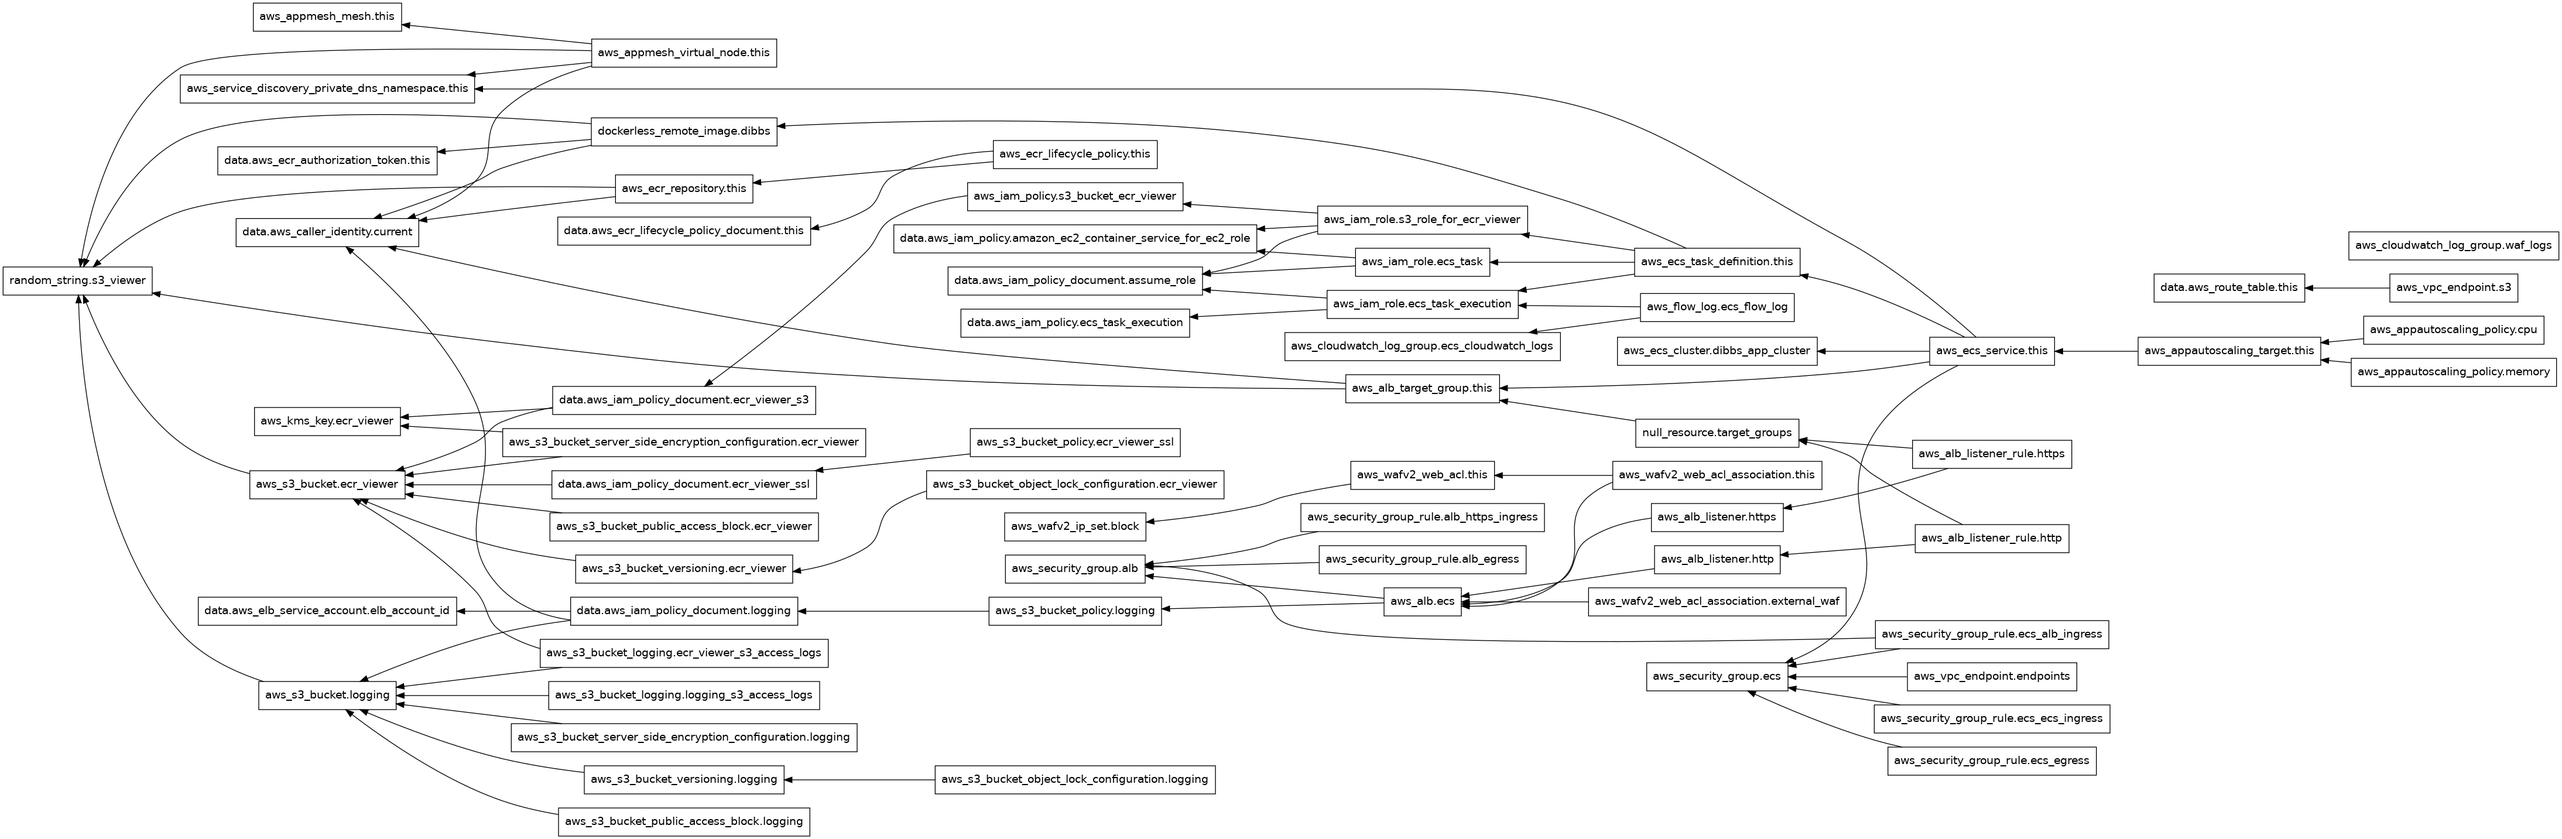
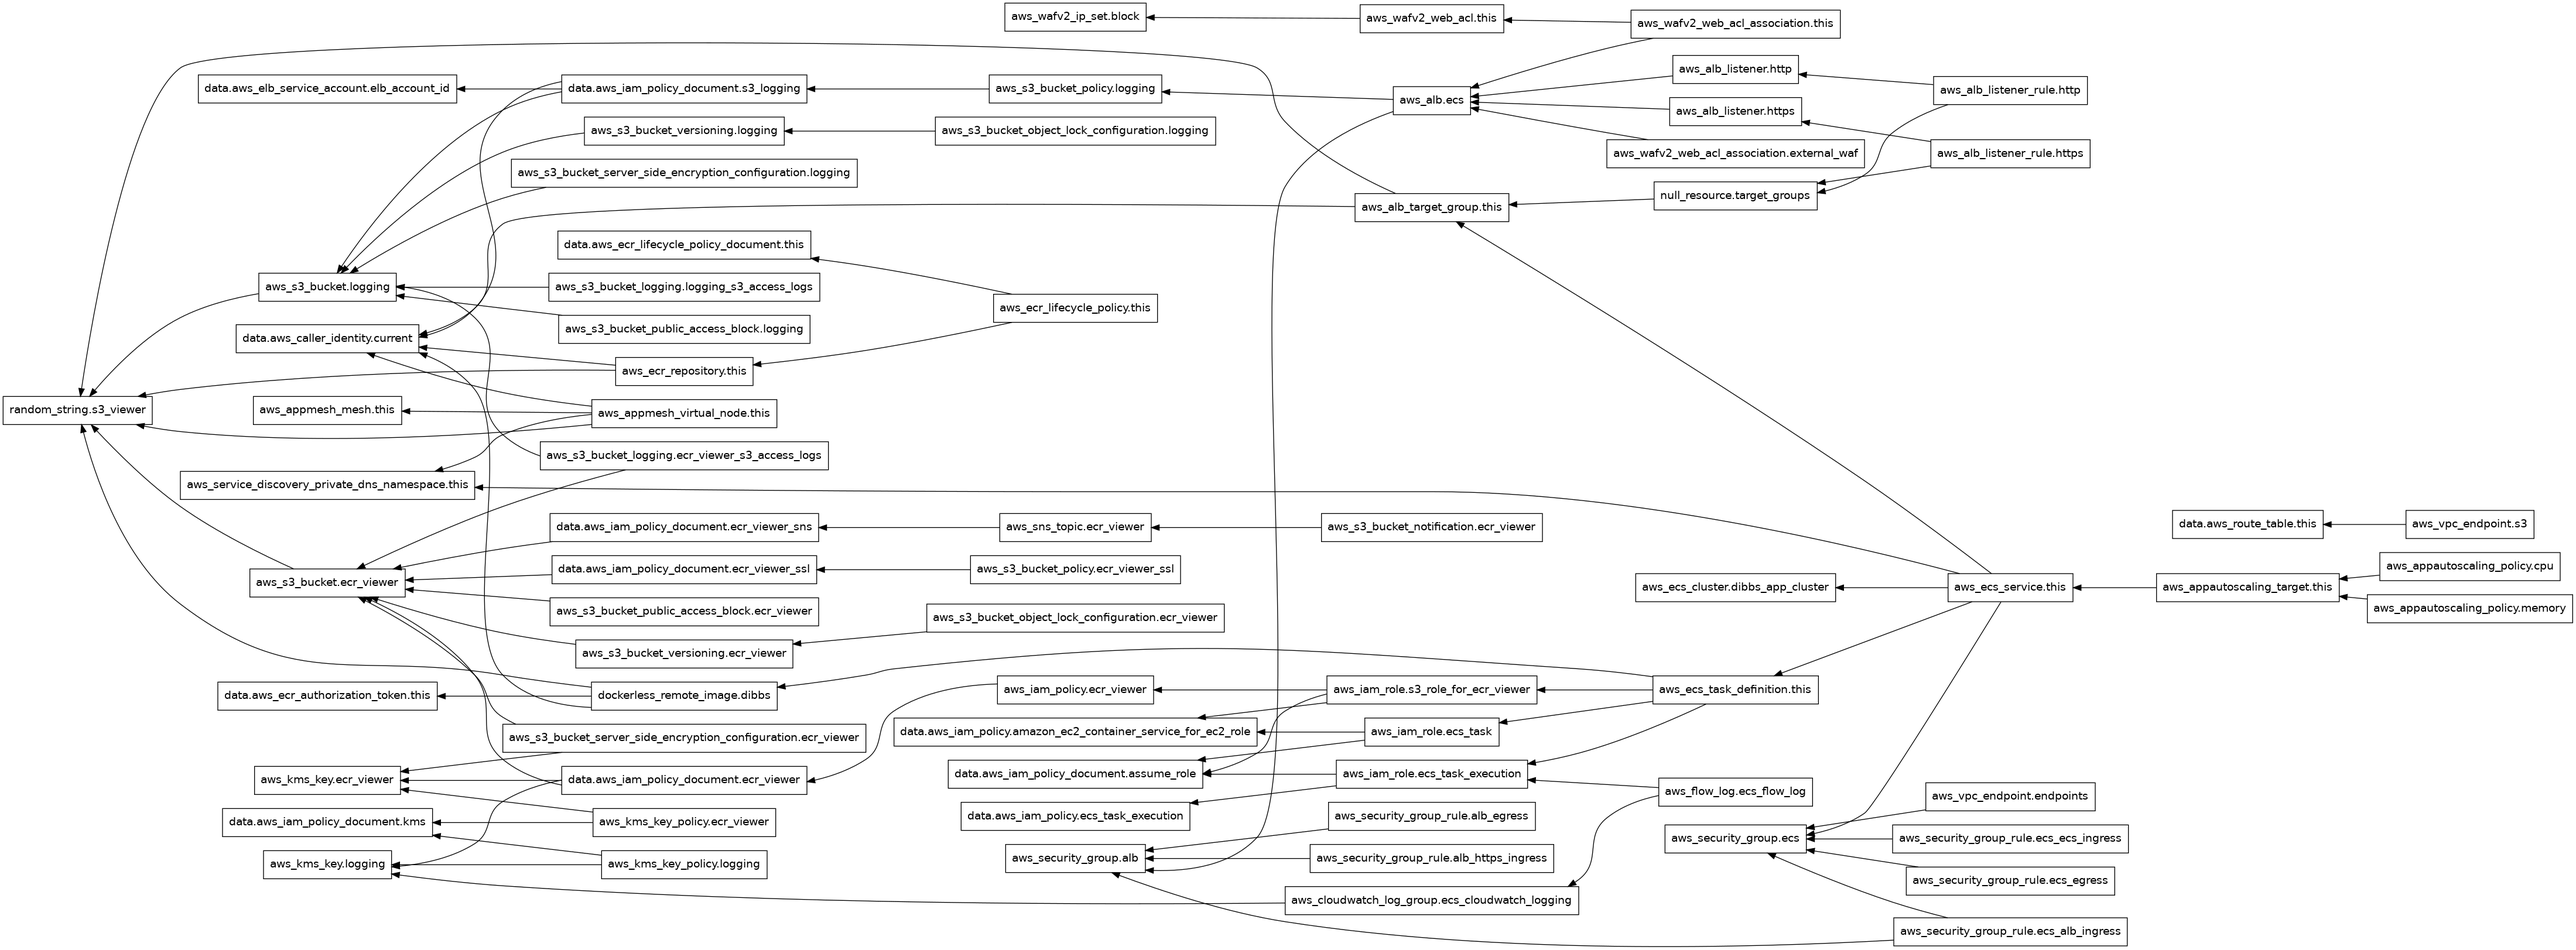
feat: disable ECR by default and comment out dockerless_remote_image resource

diff --git a/README.md b/README.md
@@ -135,23 +135,26 @@ No modules.
 | [aws_appautoscaling_target.this](https://registry.terraform.io/providers/hashicorp/aws/latest/docs/resources/appautoscaling_target) | resource |
 | [aws_appmesh_mesh.this](https://registry.terraform.io/providers/hashicorp/aws/latest/docs/resources/appmesh_mesh) | resource |
 | [aws_appmesh_virtual_node.this](https://registry.terraform.io/providers/hashicorp/aws/latest/docs/resources/appmesh_virtual_node) | resource |
-| [aws_cloudwatch_log_group.ecs_cloudwatch_logs](https://registry.terraform.io/providers/hashicorp/aws/latest/docs/resources/cloudwatch_log_group) | resource |
-| [aws_cloudwatch_log_group.waf_logs](https://registry.terraform.io/providers/hashicorp/aws/latest/docs/resources/cloudwatch_log_group) | resource |
+| [aws_cloudwatch_log_group.ecs_cloudwatch_logging](https://registry.terraform.io/providers/hashicorp/aws/latest/docs/resources/cloudwatch_log_group) | resource |
 | [aws_ecr_lifecycle_policy.this](https://registry.terraform.io/providers/hashicorp/aws/latest/docs/resources/ecr_lifecycle_policy) | resource |
 | [aws_ecr_repository.this](https://registry.terraform.io/providers/hashicorp/aws/latest/docs/resources/ecr_repository) | resource |
 | [aws_ecs_cluster.dibbs_app_cluster](https://registry.terraform.io/providers/hashicorp/aws/latest/docs/resources/ecs_cluster) | resource |
 | [aws_ecs_service.this](https://registry.terraform.io/providers/hashicorp/aws/latest/docs/resources/ecs_service) | resource |
 | [aws_ecs_task_definition.this](https://registry.terraform.io/providers/hashicorp/aws/latest/docs/resources/ecs_task_definition) | resource |
 | [aws_flow_log.ecs_flow_log](https://registry.terraform.io/providers/hashicorp/aws/latest/docs/resources/flow_log) | resource |
-| [aws_iam_policy.s3_bucket_ecr_viewer](https://registry.terraform.io/providers/hashicorp/aws/latest/docs/resources/iam_policy) | resource |
+| [aws_iam_policy.ecr_viewer](https://registry.terraform.io/providers/hashicorp/aws/latest/docs/resources/iam_policy) | resource |
 | [aws_iam_role.ecs_task](https://registry.terraform.io/providers/hashicorp/aws/latest/docs/resources/iam_role) | resource |
 | [aws_iam_role.ecs_task_execution](https://registry.terraform.io/providers/hashicorp/aws/latest/docs/resources/iam_role) | resource |
 | [aws_iam_role.s3_role_for_ecr_viewer](https://registry.terraform.io/providers/hashicorp/aws/latest/docs/resources/iam_role) | resource |
 | [aws_kms_key.ecr_viewer](https://registry.terraform.io/providers/hashicorp/aws/latest/docs/resources/kms_key) | resource |
+| [aws_kms_key.logging](https://registry.terraform.io/providers/hashicorp/aws/latest/docs/resources/kms_key) | resource |
+| [aws_kms_key_policy.ecr_viewer](https://registry.terraform.io/providers/hashicorp/aws/latest/docs/resources/kms_key_policy) | resource |
+| [aws_kms_key_policy.logging](https://registry.terraform.io/providers/hashicorp/aws/latest/docs/resources/kms_key_policy) | resource |
 | [aws_s3_bucket.ecr_viewer](https://registry.terraform.io/providers/hashicorp/aws/latest/docs/resources/s3_bucket) | resource |
 | [aws_s3_bucket.logging](https://registry.terraform.io/providers/hashicorp/aws/latest/docs/resources/s3_bucket) | resource |
 | [aws_s3_bucket_logging.ecr_viewer_s3_access_logs](https://registry.terraform.io/providers/hashicorp/aws/latest/docs/resources/s3_bucket_logging) | resource |
 | [aws_s3_bucket_logging.logging_s3_access_logs](https://registry.terraform.io/providers/hashicorp/aws/latest/docs/resources/s3_bucket_logging) | resource |
+| [aws_s3_bucket_notification.ecr_viewer](https://registry.terraform.io/providers/hashicorp/aws/latest/docs/resources/s3_bucket_notification) | resource |
 | [aws_s3_bucket_object_lock_configuration.ecr_viewer](https://registry.terraform.io/providers/hashicorp/aws/latest/docs/resources/s3_bucket_object_lock_configuration) | resource |
 | [aws_s3_bucket_object_lock_configuration.logging](https://registry.terraform.io/providers/hashicorp/aws/latest/docs/resources/s3_bucket_object_lock_configuration) | resource |
 | [aws_s3_bucket_policy.ecr_viewer_ssl](https://registry.terraform.io/providers/hashicorp/aws/latest/docs/resources/s3_bucket_policy) | resource |
@@ -170,6 +173,7 @@ No modules.
 | [aws_security_group_rule.ecs_ecs_ingress](https://registry.terraform.io/providers/hashicorp/aws/latest/docs/resources/security_group_rule) | resource |
 | [aws_security_group_rule.ecs_egress](https://registry.terraform.io/providers/hashicorp/aws/latest/docs/resources/security_group_rule) | resource |
 | [aws_service_discovery_private_dns_namespace.this](https://registry.terraform.io/providers/hashicorp/aws/latest/docs/resources/service_discovery_private_dns_namespace) | resource |
+| [aws_sns_topic.ecr_viewer](https://registry.terraform.io/providers/hashicorp/aws/latest/docs/resources/sns_topic) | resource |
 | [aws_vpc_endpoint.endpoints](https://registry.terraform.io/providers/hashicorp/aws/latest/docs/resources/vpc_endpoint) | resource |
 | [aws_vpc_endpoint.s3](https://registry.terraform.io/providers/hashicorp/aws/latest/docs/resources/vpc_endpoint) | resource |
 | [aws_wafv2_ip_set.block](https://registry.terraform.io/providers/hashicorp/aws/latest/docs/resources/wafv2_ip_set) | resource |
@@ -186,9 +190,11 @@ No modules.
 | [aws_iam_policy.amazon_ec2_container_service_for_ec2_role](https://registry.terraform.io/providers/hashicorp/aws/latest/docs/data-sources/iam_policy) | data source |
 | [aws_iam_policy.ecs_task_execution](https://registry.terraform.io/providers/hashicorp/aws/latest/docs/data-sources/iam_policy) | data source |
 | [aws_iam_policy_document.assume_role](https://registry.terraform.io/providers/hashicorp/aws/latest/docs/data-sources/iam_policy_document) | data source |
-| [aws_iam_policy_document.ecr_viewer_s3](https://registry.terraform.io/providers/hashicorp/aws/latest/docs/data-sources/iam_policy_document) | data source |
+| [aws_iam_policy_document.ecr_viewer](https://registry.terraform.io/providers/hashicorp/aws/latest/docs/data-sources/iam_policy_document) | data source |
+| [aws_iam_policy_document.ecr_viewer_sns](https://registry.terraform.io/providers/hashicorp/aws/latest/docs/data-sources/iam_policy_document) | data source |
 | [aws_iam_policy_document.ecr_viewer_ssl](https://registry.terraform.io/providers/hashicorp/aws/latest/docs/data-sources/iam_policy_document) | data source |
-| [aws_iam_policy_document.logging](https://registry.terraform.io/providers/hashicorp/aws/latest/docs/data-sources/iam_policy_document) | data source |
+| [aws_iam_policy_document.kms](https://registry.terraform.io/providers/hashicorp/aws/latest/docs/data-sources/iam_policy_document) | data source |
+| [aws_iam_policy_document.s3_logging](https://registry.terraform.io/providers/hashicorp/aws/latest/docs/data-sources/iam_policy_document) | data source |
 | [aws_route_table.this](https://registry.terraform.io/providers/hashicorp/aws/latest/docs/data-sources/route_table) | data source |
 
 ## Inputs
@@ -260,6 +266,7 @@ No modules.
 | <a name="output_alb_listener_arn"></a> [alb\_listener\_arn](#output\_alb\_listener\_arn) | n/a |
 | <a name="output_alb_security_group_arn"></a> [alb\_security\_group\_arn](#output\_alb\_security\_group\_arn) | n/a |
 | <a name="output_alb_target_groups_arns"></a> [alb\_target\_groups\_arns](#output\_alb\_target\_groups\_arns) | n/a |
+| <a name="output_ecr_viewer_policy_arn"></a> [ecr\_viewer\_policy\_arn](#output\_ecr\_viewer\_policy\_arn) | n/a |
 | <a name="output_ecs_cluster_arn"></a> [ecs\_cluster\_arn](#output\_ecs\_cluster\_arn) | n/a |
 | <a name="output_ecs_security_group_arn"></a> [ecs\_security\_group\_arn](#output\_ecs\_security\_group\_arn) | n/a |
 | <a name="output_ecs_task_definitions_arns"></a> [ecs\_task\_definitions\_arns](#output\_ecs\_task\_definitions\_arns) | n/a |
@@ -268,7 +275,6 @@ No modules.
 | <a name="output_http_alb_listener_rules_arns"></a> [http\_alb\_listener\_rules\_arns](#output\_http\_alb\_listener\_rules\_arns) | n/a |
 | <a name="output_https_alb_listener_rules_arns"></a> [https\_alb\_listener\_rules\_arns](#output\_https\_alb\_listener\_rules\_arns) | n/a |
 | <a name="output_s3_bucket_arn"></a> [s3\_bucket\_arn](#output\_s3\_bucket\_arn) | The ARN of the S3 bucket |
-| <a name="output_s3_bucket_ecr_viewer_policy_arn"></a> [s3\_bucket\_ecr\_viewer\_policy\_arn](#output\_s3\_bucket\_ecr\_viewer\_policy\_arn) | n/a |
 | <a name="output_s3_role_for_ecr_viewer_arn"></a> [s3\_role\_for\_ecr\_viewer\_arn](#output\_s3\_role\_for\_ecr\_viewer\_arn) | n/a |
 | <a name="output_service_data"></a> [service\_data](#output\_service\_data) | n/a |
 <!-- END_TF_DOCS -->
